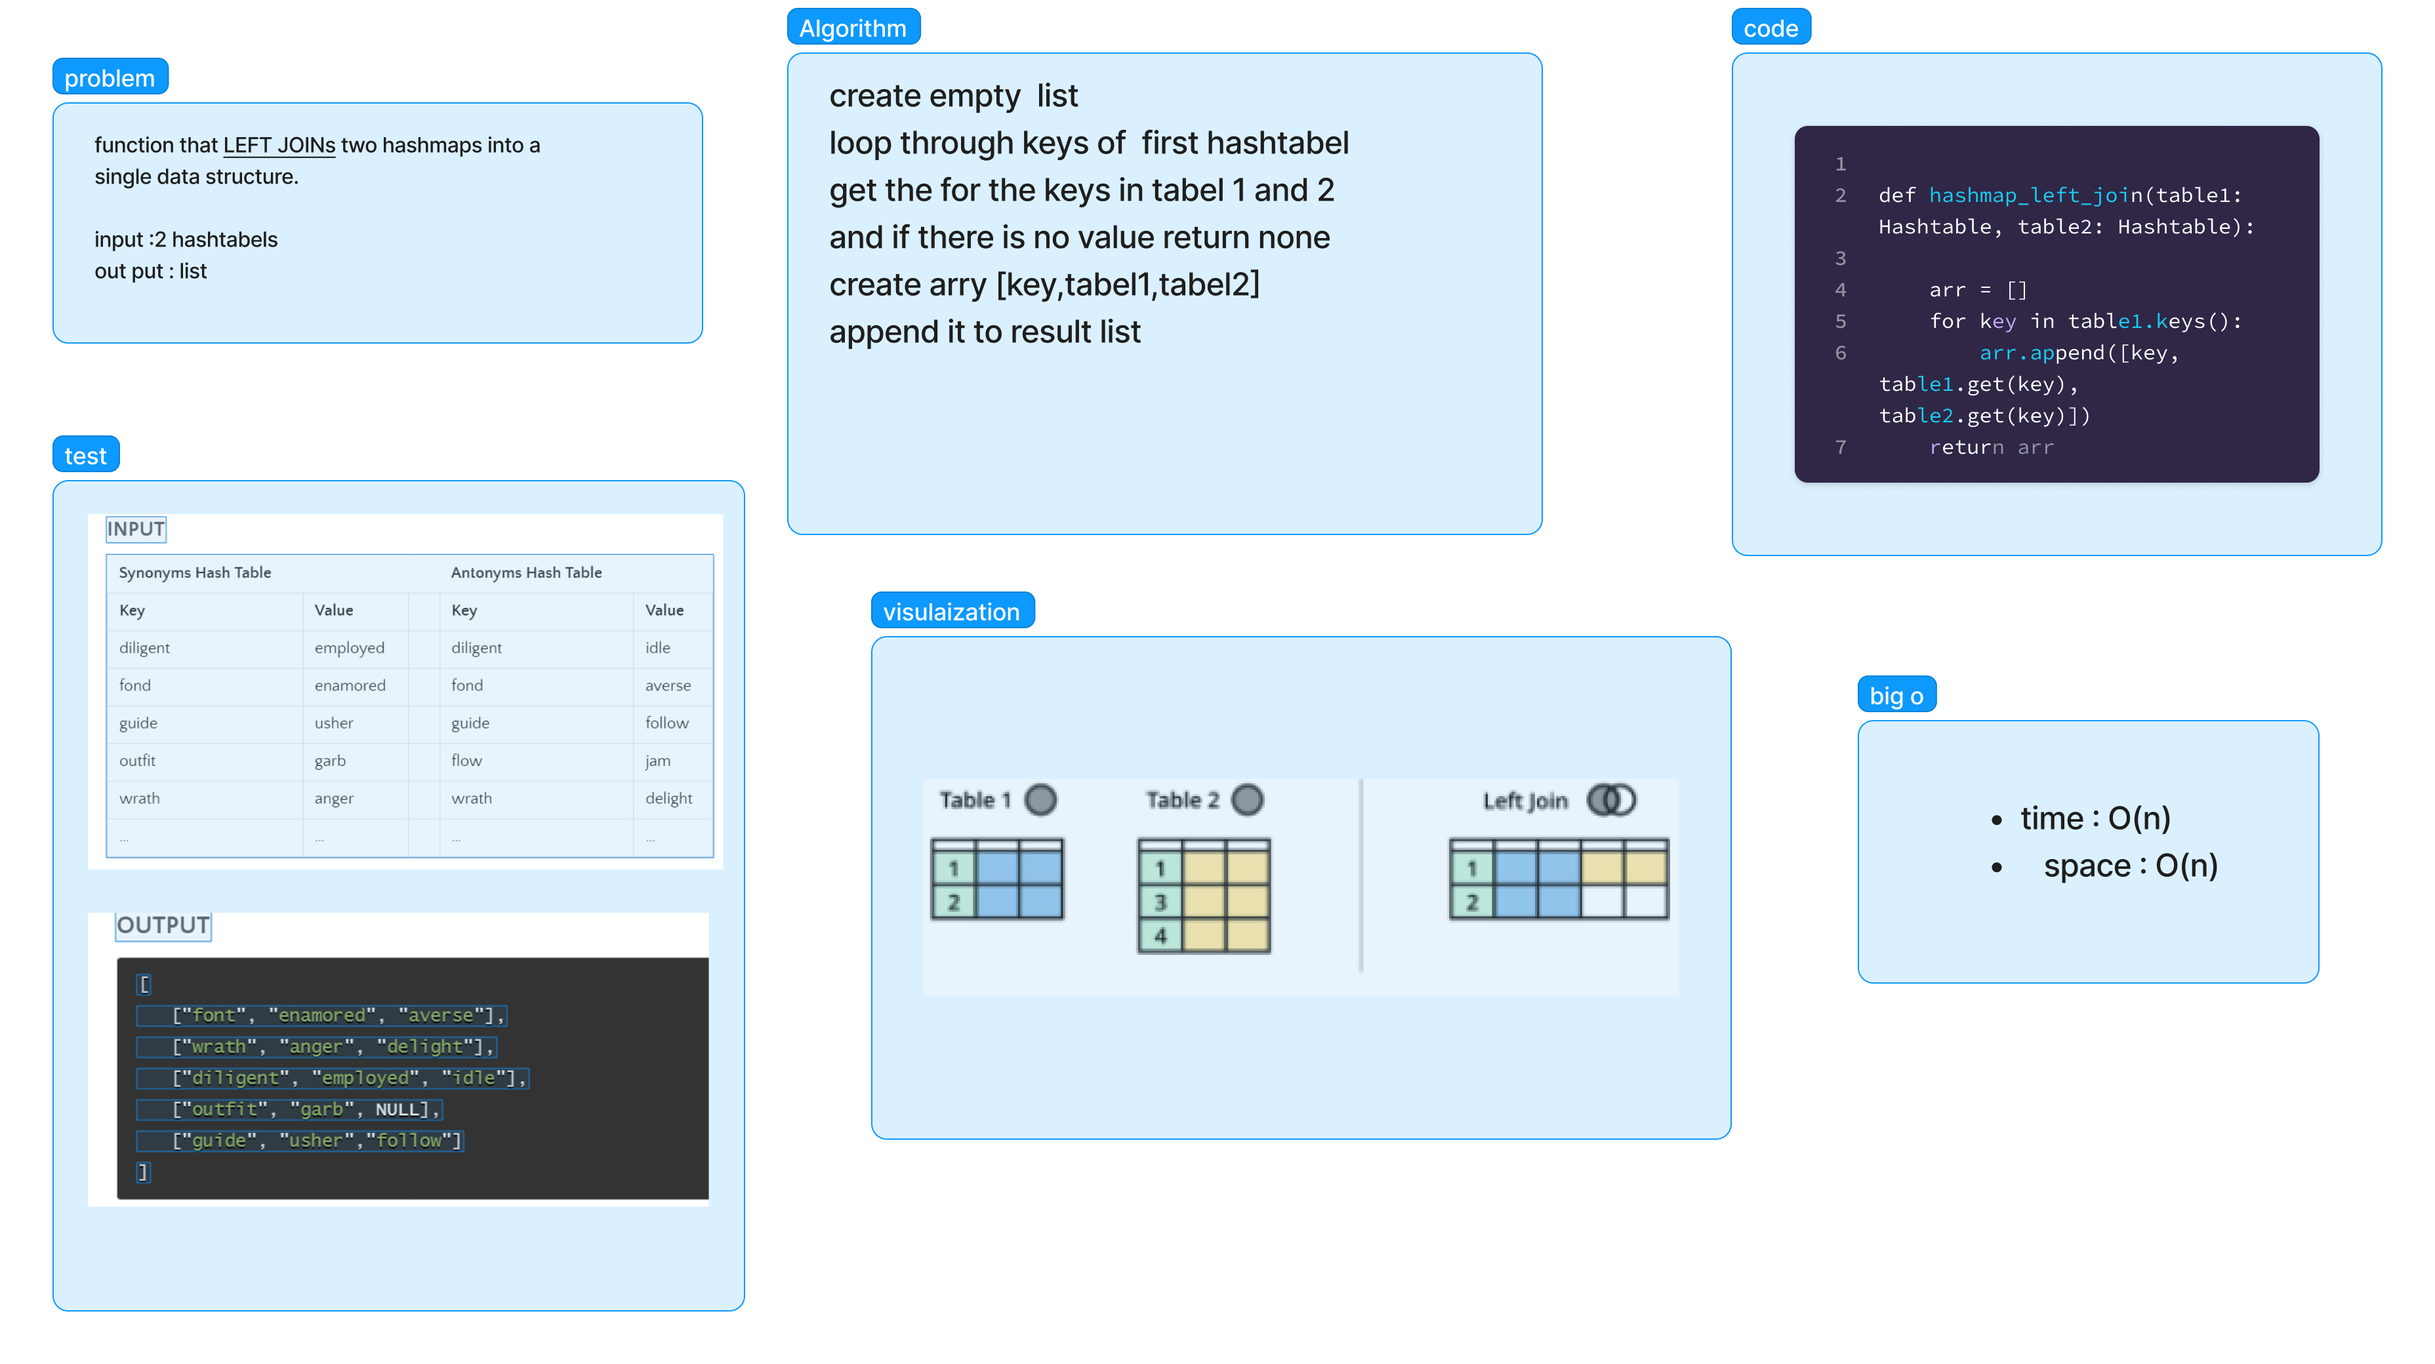
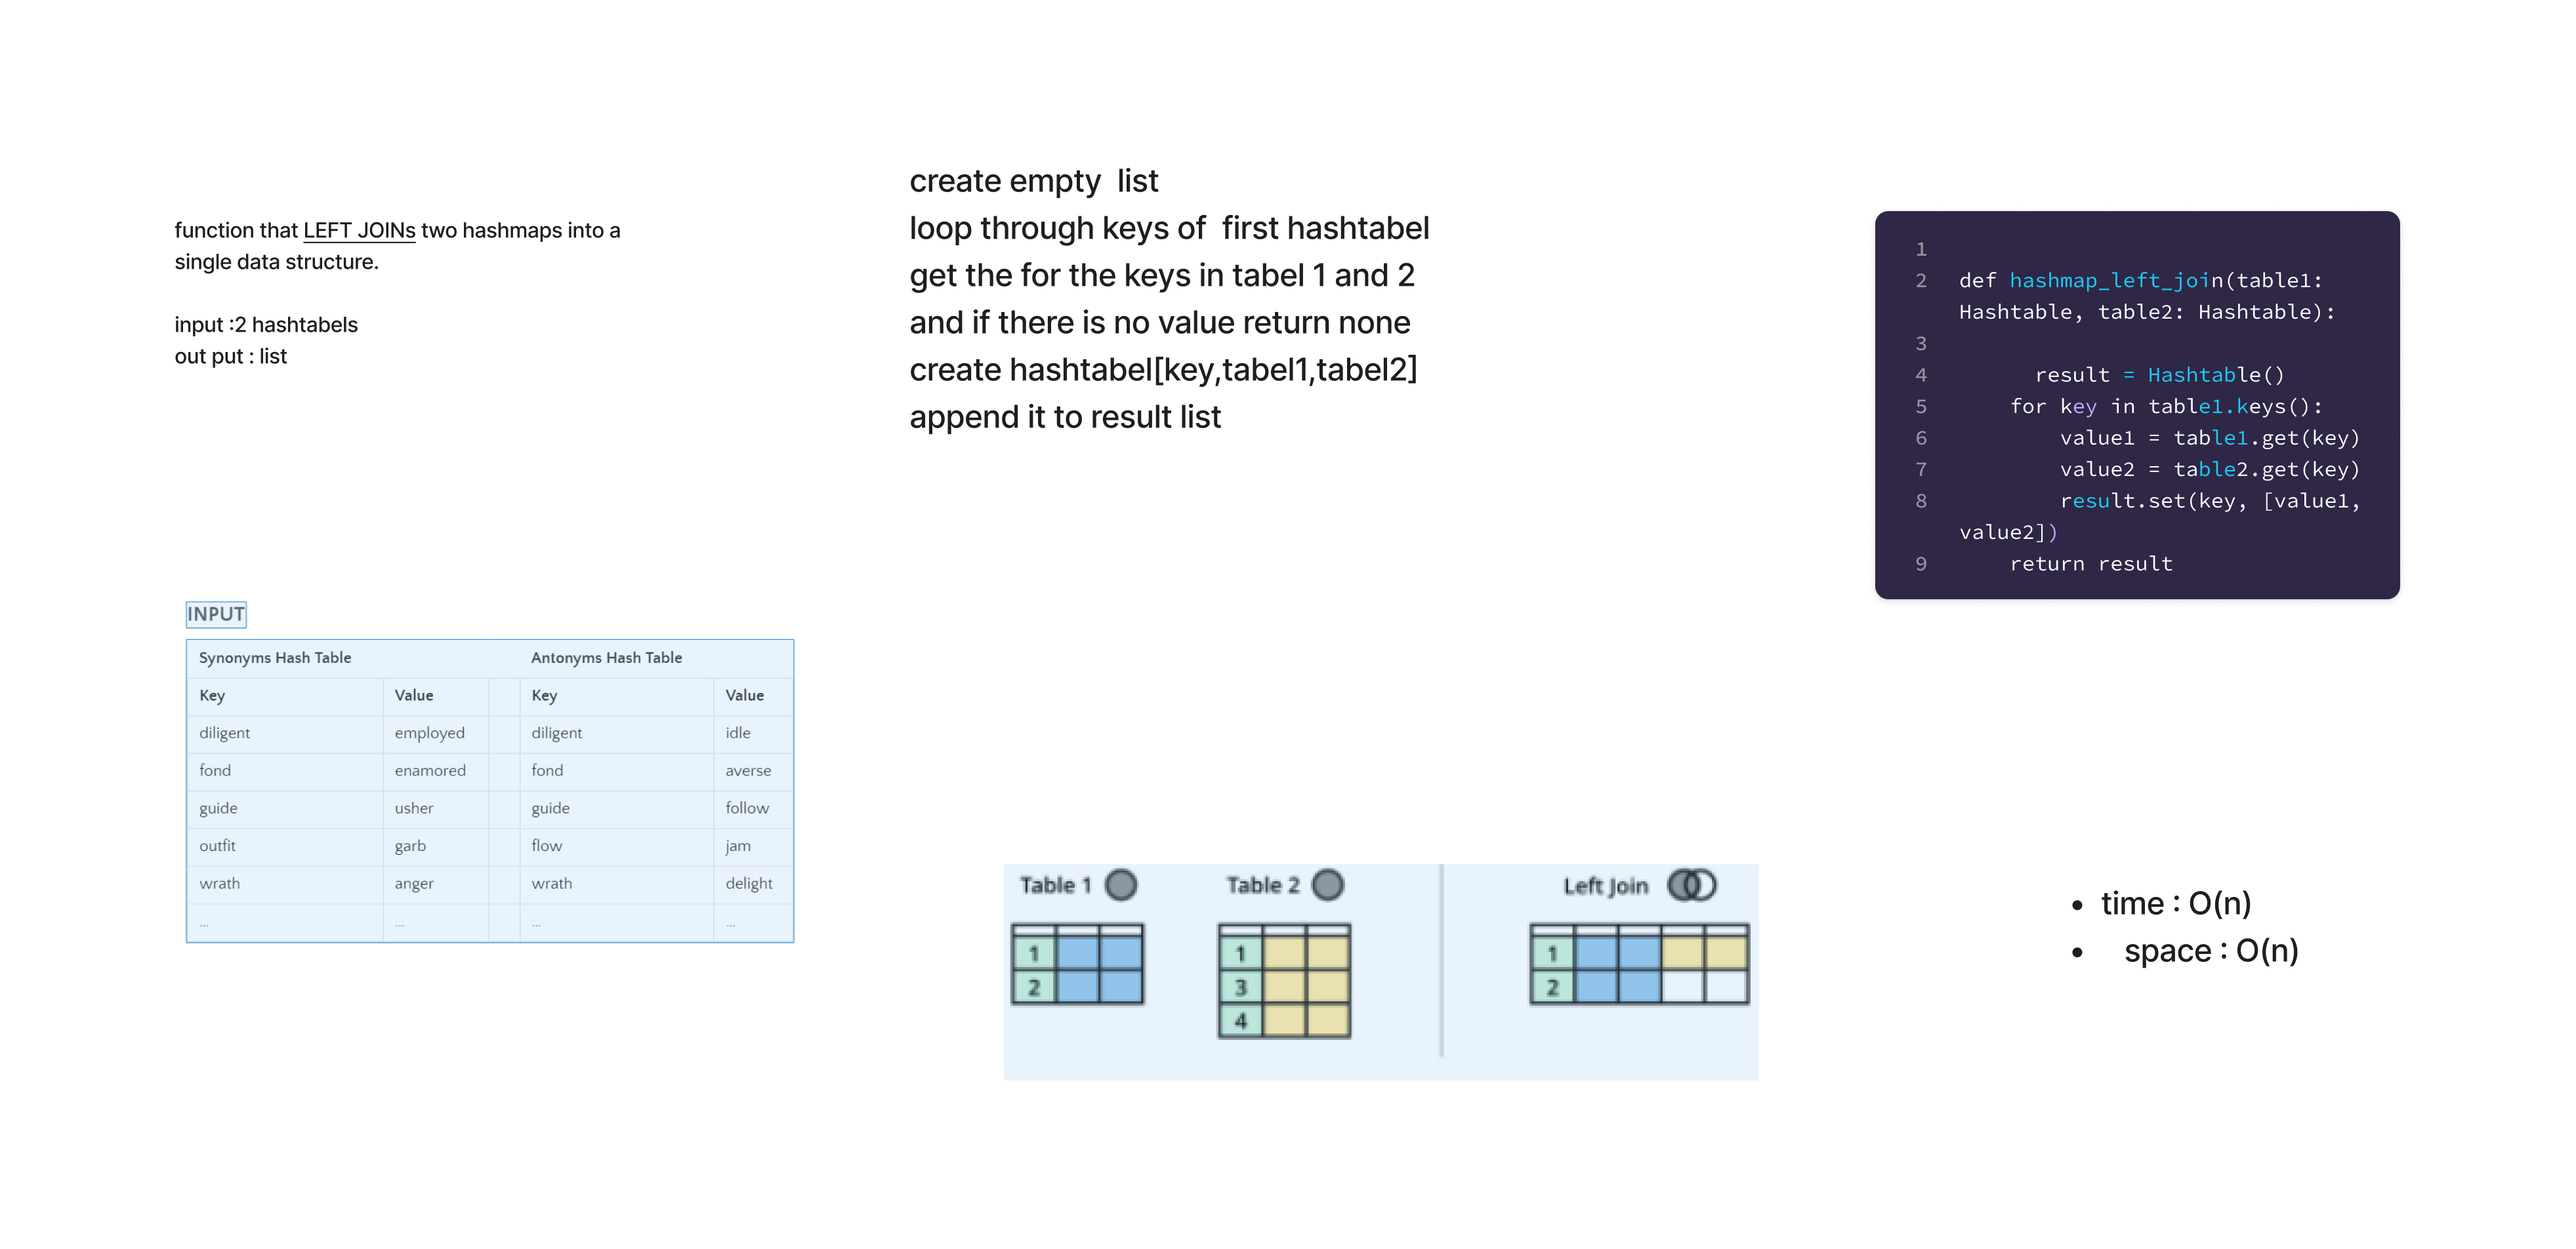
update

diff --git a/hashmap-left-join/hashmap_left_join.py b/hashmap-left-join/hashmap_left_join.py
@@ -9,9 +9,11 @@ def hashmap_left_join(table1: Hashtable, table2: Hashtable):
         table2 (Hashtable): Hashtable to join with.
 
     Returns:
-        list[list]: List of lists containing the key, value from table1, and value from table2.
+        Hashtable: Hashtable containing the left join result with keys from table1 and values from both tables.
     """
-    arr = []
+    result = Hashtable()
     for key in table1.keys():
-        arr.append([key, table1.get(key), table2.get(key)])
-    return arr
+        value1 = table1.get(key)
+        value2 = table2.get(key)
+        result.set(key, [value1, value2])
+    return result
